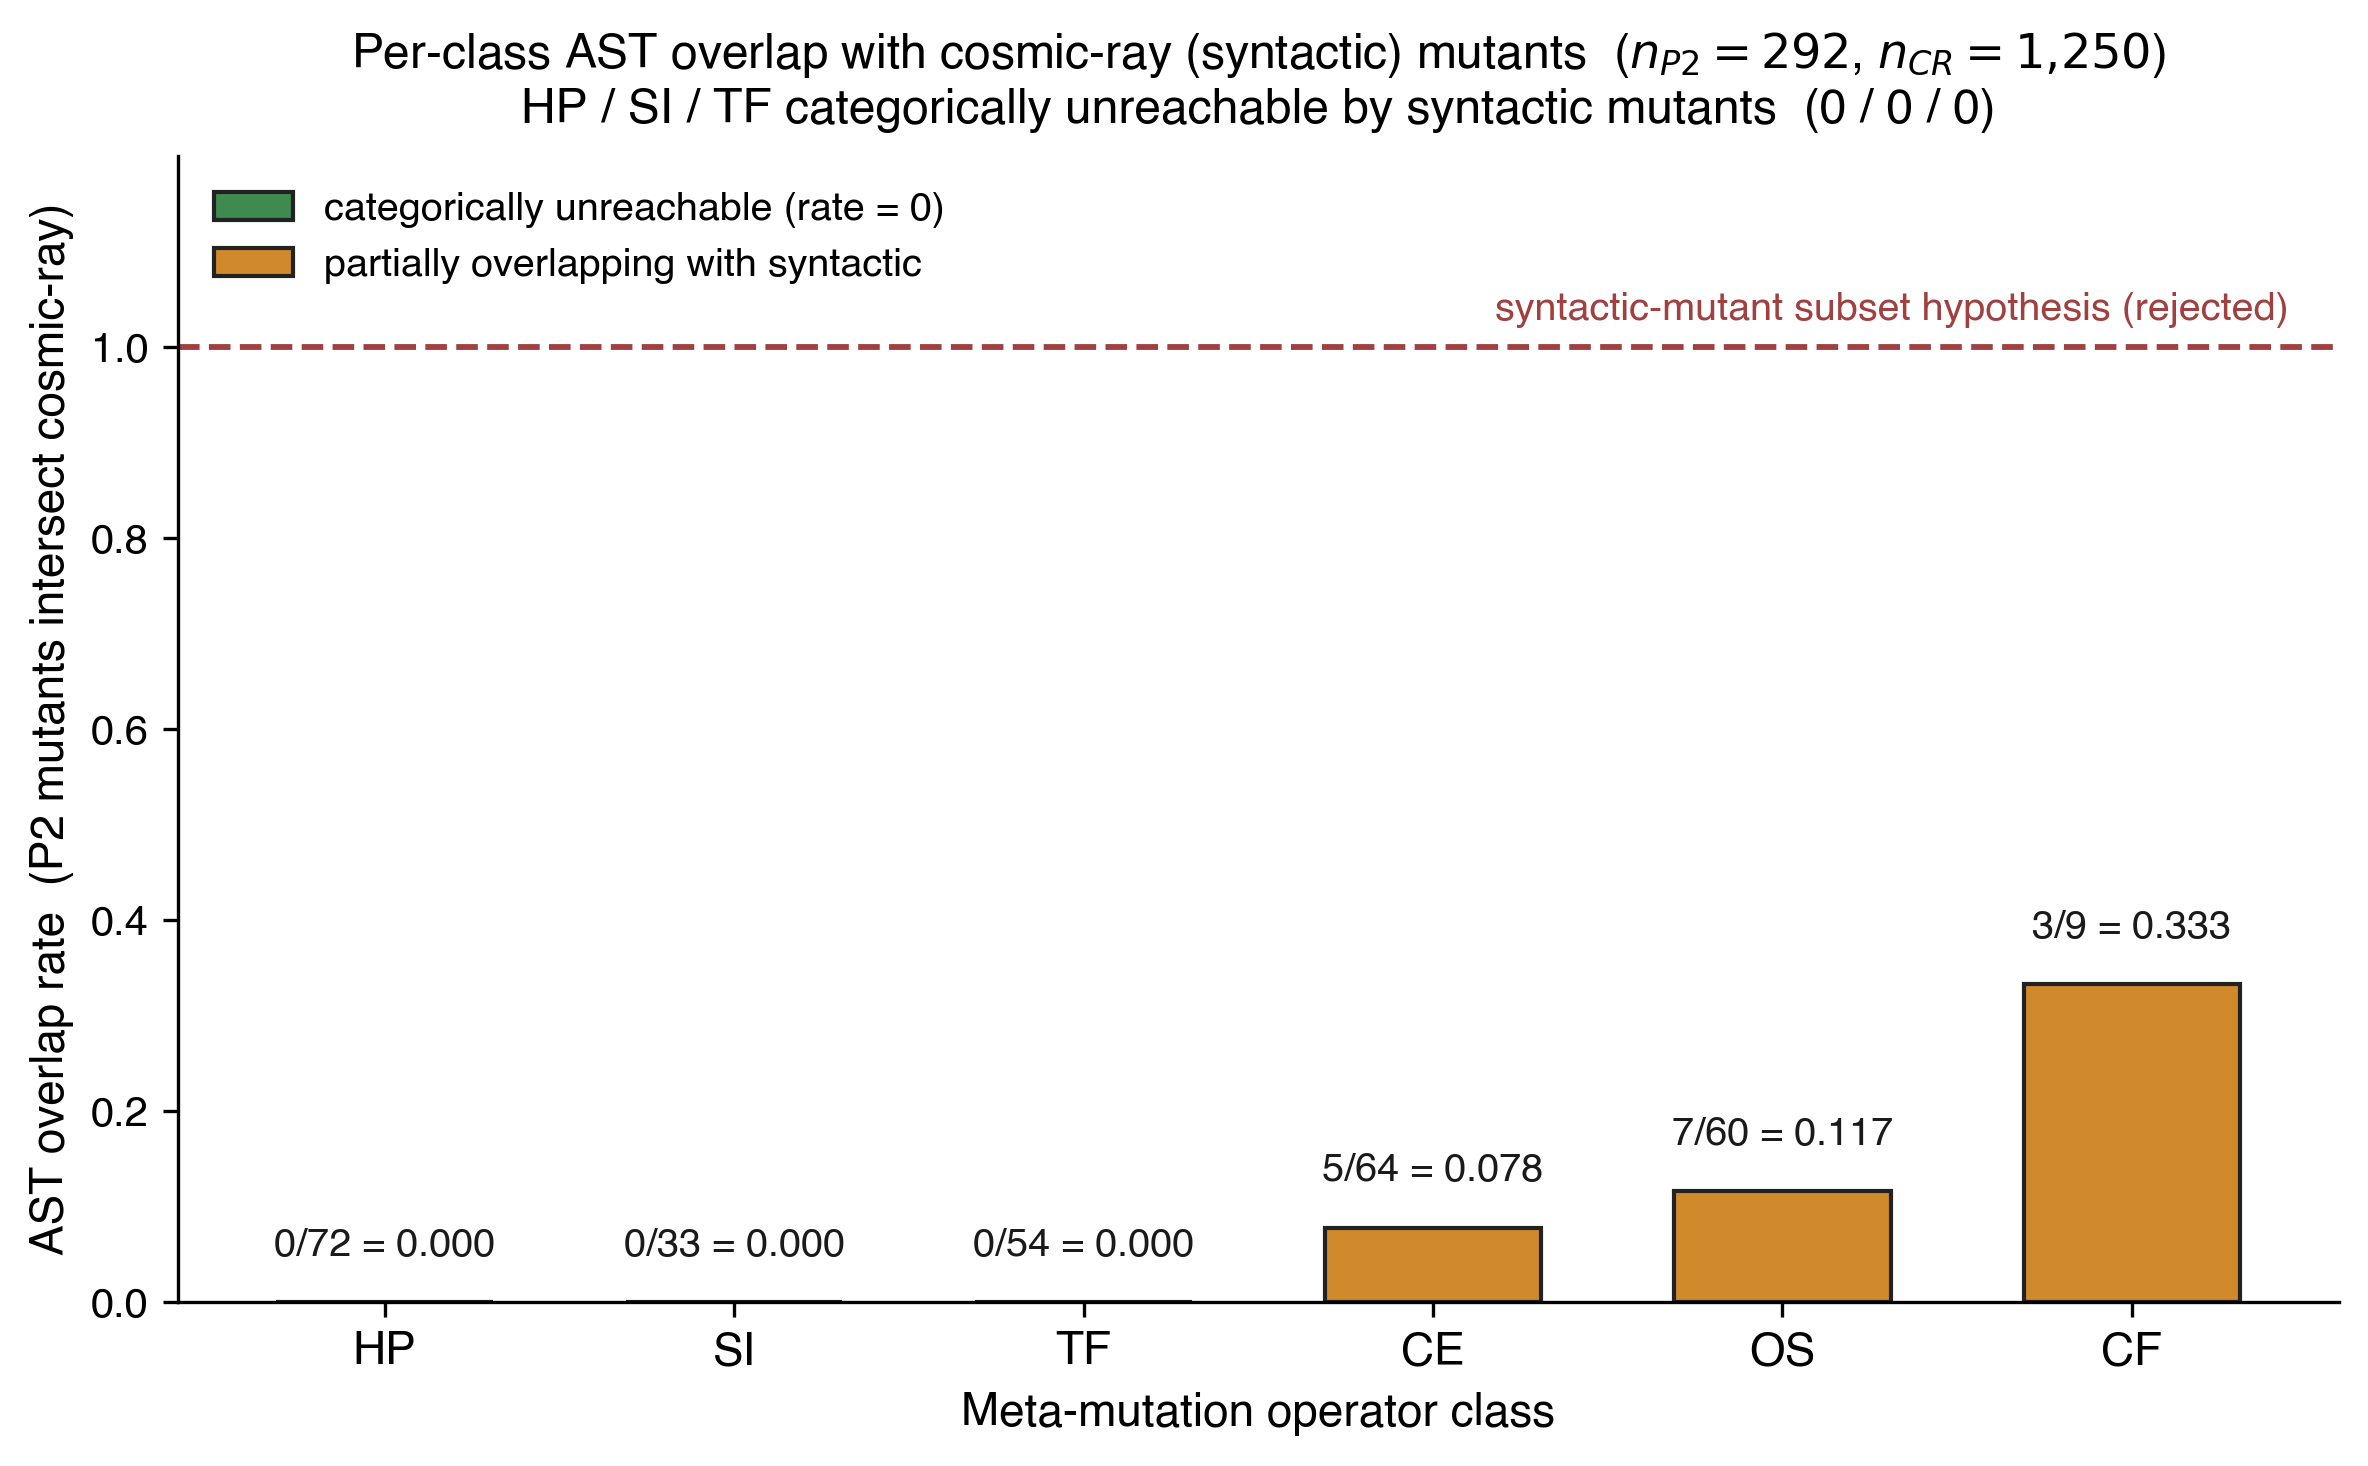
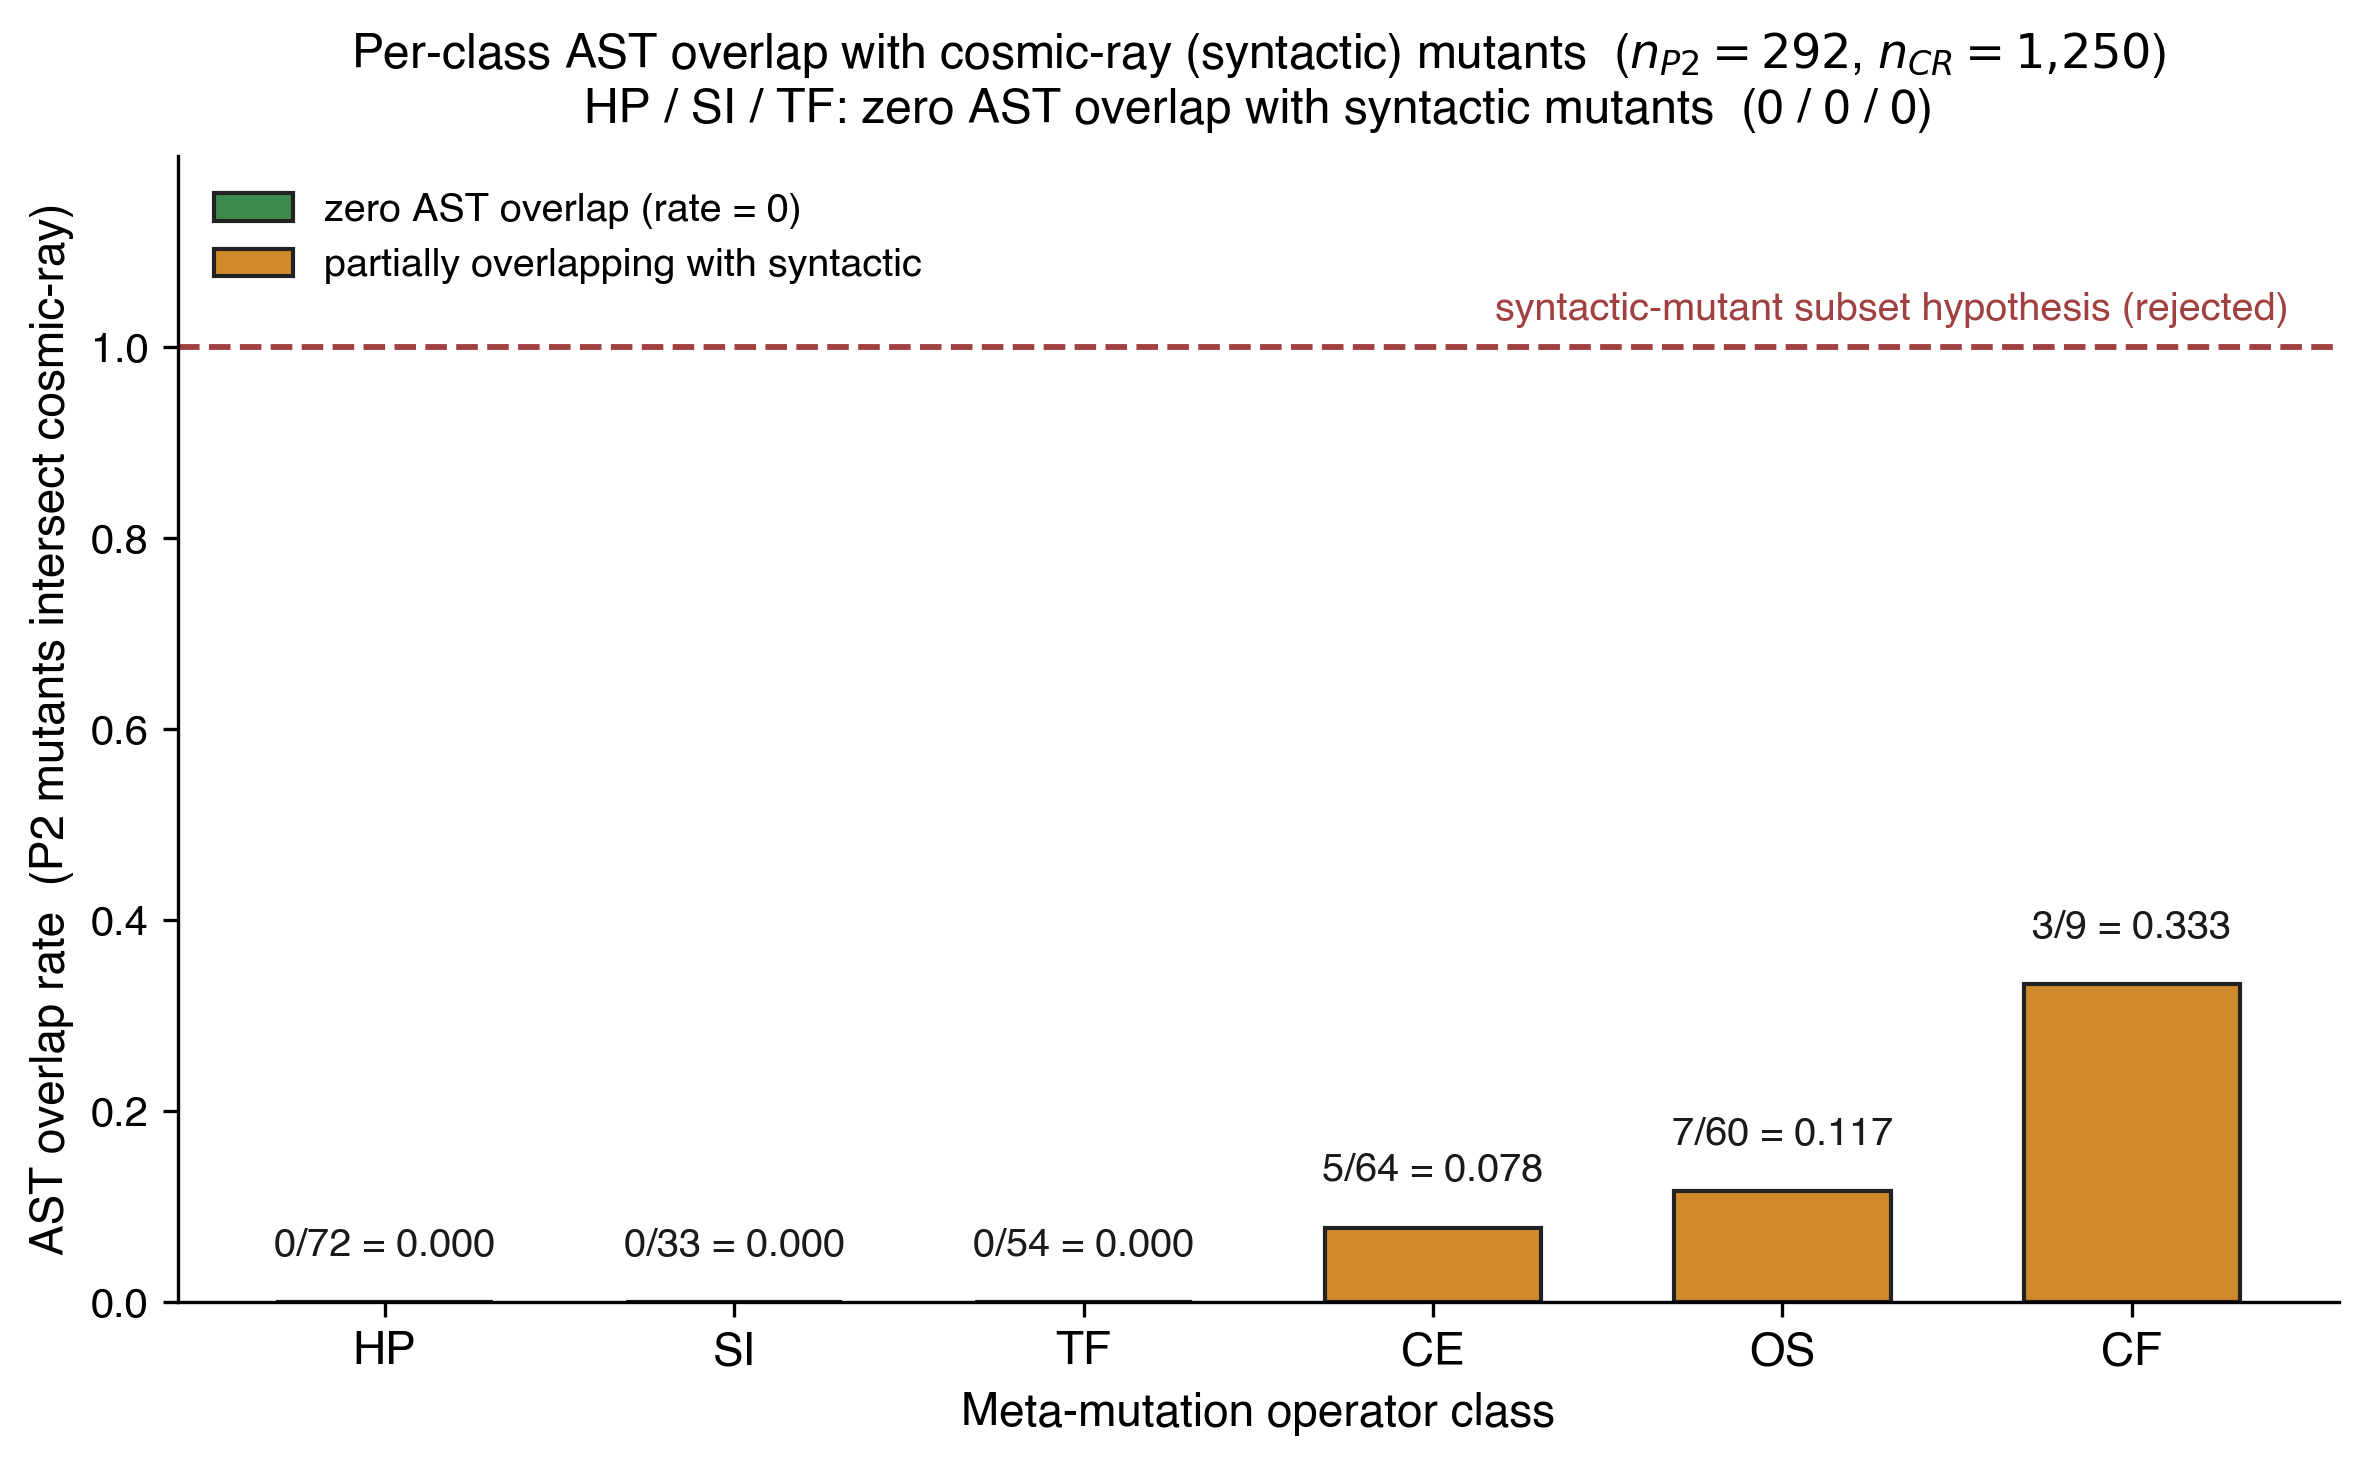
phase-D(tosem-r2): close U9/U12/U14 (figure regen, per-case mechanisms, local rebuild)
Local rebuild on d64926f with matplotlib 3.10.9 available; closes the
figure-and-rebuild items left open after the port.

U9 (figures): regenerate fig1/2/3 and sync into source/figures/png/.
Two substantive fixes surfaced during regen: (a) fig1 Layer-3 and fig3
title/legend still rendered "categorically unreachable", the phrase the
body walked back in fix #24, now "zero AST overlap with syntactic
mutants"; (b) the zero-signal PUT cohort was mislabelled A1,B1,D2 in the
fig2 caption/alt/Description and the "Programs with Zero Observed Signal"
subsection, but the v4 SSOT (sms_track2_v4.json) and the rendered heatmap
show A1,A3,C2 (each 150/90/135 valid mutants, 0 equivalent, 0 killed;
B1 and D2 carry mass). Corrected in 4 places. fig2 x-axis also drops the
MP1-MP5 prefixes per commit 62928cd, which had deferred regen to a
matplotlib machine.

U12 (counterexamples): the four non-nesting cases were already named in
the fiber-view paragraph; add their per-case mechanisms (value
destruction preserving order, zeroing preserving symmetry, overshoot
within bounds, variable-substitution/stale-read) from the Appendix I
evidence slice, with a plain-text supplementary pointer.

U14 (rebuild): fix a latent build bug, extract_after_frontmatter split on
the first \end{frontmatter}, which matched the venue-neutral header
comment and dragged the authoring preamble into the body; use rsplit.
TOSEM regular rebuild: main 43 pages (<=45), supplementary 21 pages,
[…]

Changed region(s): [[0.2188, 0.0614, 0.8438, 0.0921], [0.125, 0.1228, 0.4062, 0.1535]]

diff --git a/source/main.tex b/source/main.tex
@@ -1805,12 +1805,12 @@ the metric construction.
 
 \begin{figure}
 \centering
-\includegraphics[width=0.9\linewidth,height=\textheight,keepaspectratio,alt={60-cell heatmap of mean SMS over 12 PUTs \textbackslash times 5 MPs (cross-source primary). Diagonal cells (operator-MP aligned) show concentrated mass; off-diagonal mass reflects bleed into adjacent MPs. Empty rows = PUT-level zero-mass cohort (PUTs A1, B1, D2; see Section~\ref{decoupling-between-r_sem-and-r_kill}).}]{figures/png/fig2_60cell_heatmap.png}
-\Description{60-cell heatmap of mean SMS over 12 PUTs by five meta-patterns under the cross-source primary pool. Aligned cells concentrate the main signal, while many cross cells are zero; PUTs A1, B1, and D2 form all-zero rows.}
+\includegraphics[width=0.9\linewidth,height=\textheight,keepaspectratio,alt={60-cell heatmap of mean SMS over 12 PUTs \textbackslash times 5 MPs (cross-source primary). Diagonal cells (operator-MP aligned) show concentrated mass; off-diagonal mass reflects bleed into adjacent MPs. Empty rows = PUT-level zero-mass cohort (PUTs A1, A3, C2; see Section~\ref{decoupling-between-r_sem-and-r_kill}).}]{figures/png/fig2_60cell_heatmap.png}
+\Description{60-cell heatmap of mean SMS over 12 PUTs by five meta-patterns under the cross-source primary pool. Aligned cells concentrate the main signal, while many cross cells are zero; PUTs A1, A3, and C2 form all-zero rows.}
 \caption{60-cell heatmap of mean SMS over 12 PUTs \(\times\) 5 MPs (v4
 cross-source primary). Diagonal cells (operator-MP aligned) show
 concentrated mass; off-diagonal mass reflects bleed into adjacent MPs.
-Empty rows = PUT-level zero-mass cohort (PUTs A1, B1, D2; see
+Empty rows = PUT-level zero-mass cohort (PUTs A1, A3, C2; see
 Section~\ref{decoupling-between-r_sem-and-r_kill}).}\label{fig:heatmap}
 \end{figure}
 
@@ -2478,7 +2478,13 @@ semantic effects an MR observes; it is not, by itself, a verdict on MR
 quality. The same industrial arm gives concrete non-nesting
 counterexamples, A-LAPACK-004, A-OPENBLAS-001, B-POCKETFFT-002, and
 E-ORDINARYDIFFEQ-001, where generic baselines kill mutants that the
-pattern-derived relation can miss or match.
+pattern-derived relation can miss or match. The mechanisms are
+distinct across the four cases, value destruction that preserves
+element order, zeroing that preserves a symmetry the relation checks,
+overshoot that stays within the tested bounds, and a
+variable-substitution/stale-read edit that operator mutation does not
+reach well, so no single relation family induces a total order over
+the others (supplementary Appendix I).
 Thus semantic mutation should be read as a certificate-bearing diagnostic
 for a declared semantic stratum, not as a scalar hierarchy in which one
 mutation family simply dominates another. This evidence therefore
@@ -2823,7 +2829,7 @@ properly identified hierarchical model.
 
 \subsection{Programs with Zero Observed Signal}\label{put-level-zero-mass-cohort}
 
-Figure 2 and Section~\ref{decoupling-between-r_sem-and-r_kill} document that PUTs A1, B1, and D2 produce all-zero
+Figure 2 and Section~\ref{decoupling-between-r_sem-and-r_kill} document that PUTs A1, A3, and C2 produce all-zero
 rows across the five MPs in the cross-source pool; that is,
 \textbf{for 25\% of the PUTs, SMS gives zero signal at every operator-MP
 cell}. This is a substantive limitation of SMS as an adequacy metric on

diff --git a/scripts/generate_figures.py b/scripts/generate_figures.py
@@ -131,7 +131,7 @@ def figure1(out_path: Path) -> None:
         "Layer 3 -- Applied ($\\S$3.5)",
         ("12-PUT cosmic-ray AST traceability  (292 P2 vs 1,250 syntactic mutants)\n"
          "Overall AST overlap = 5.14%   (15 / 292)\n"
-         "HP / SI / TF categorically unreachable for syntactic mutants:  0 / 0 / 0"),
+         "HP / SI / TF: zero AST overlap with syntactic mutants:  0 / 0 / 0"),
     )
 
     # Arrow Layer 1 -> Layer 2 (operationalisation)
@@ -258,7 +258,7 @@ def figure3(out_path: Path) -> None:
     n_overlap = [v["n_overlap"] for _, v in items]
     n_p2 = [v["n_p2"] for _, v in items]
 
-    # Color scheme: HP / SI / TF (categorically unreachable) -> green;
+    # Color scheme: HP / SI / TF (zero AST overlap) -> green;
     # CE / OS / CF -> orange.
     green = "#3F8A4F"
     orange = "#D08A2C"
@@ -304,14 +304,14 @@ def figure3(out_path: Path) -> None:
     ax.set_title(
         "Per-class AST overlap with cosmic-ray (syntactic) mutants  "
         "($n_{P2}=292$, $n_{CR}=1{,}250$)\n"
-        "HP / SI / TF categorically unreachable by syntactic mutants  (0 / 0 / 0)",
+        "HP / SI / TF: zero AST overlap with syntactic mutants  (0 / 0 / 0)",
         fontsize=11.5, pad=8,
     )
 
     # Legend
     legend_handles = [
         mpatches.Patch(facecolor=green, edgecolor="#222222",
-                       label="categorically unreachable (rate = 0)"),
+                       label="zero AST overlap (rate = 0)"),
         mpatches.Patch(facecolor=orange, edgecolor="#222222",
                        label="partially overlapping with syntactic"),
     ]

diff --git a/venues/tosem/build.py b/venues/tosem/build.py
@@ -127,7 +127,10 @@ def extract_after_frontmatter(tex: str) -> str:
     marker = r"\end{frontmatter}"
     if marker not in tex:
         raise ValueError("source file has no \\end{frontmatter}")
-    return tex.split(marker, 1)[1].strip()
+    # Split on the LAST occurrence: the venue-neutral header comment near the
+    # top of source/main.tex also mentions \end{frontmatter}, and splitting on
+    # the first match would drag the authoring preamble into the body.
+    return tex.rsplit(marker, 1)[1].strip()
 
 
 def strip_references_and_tail(tex: str) -> str:
